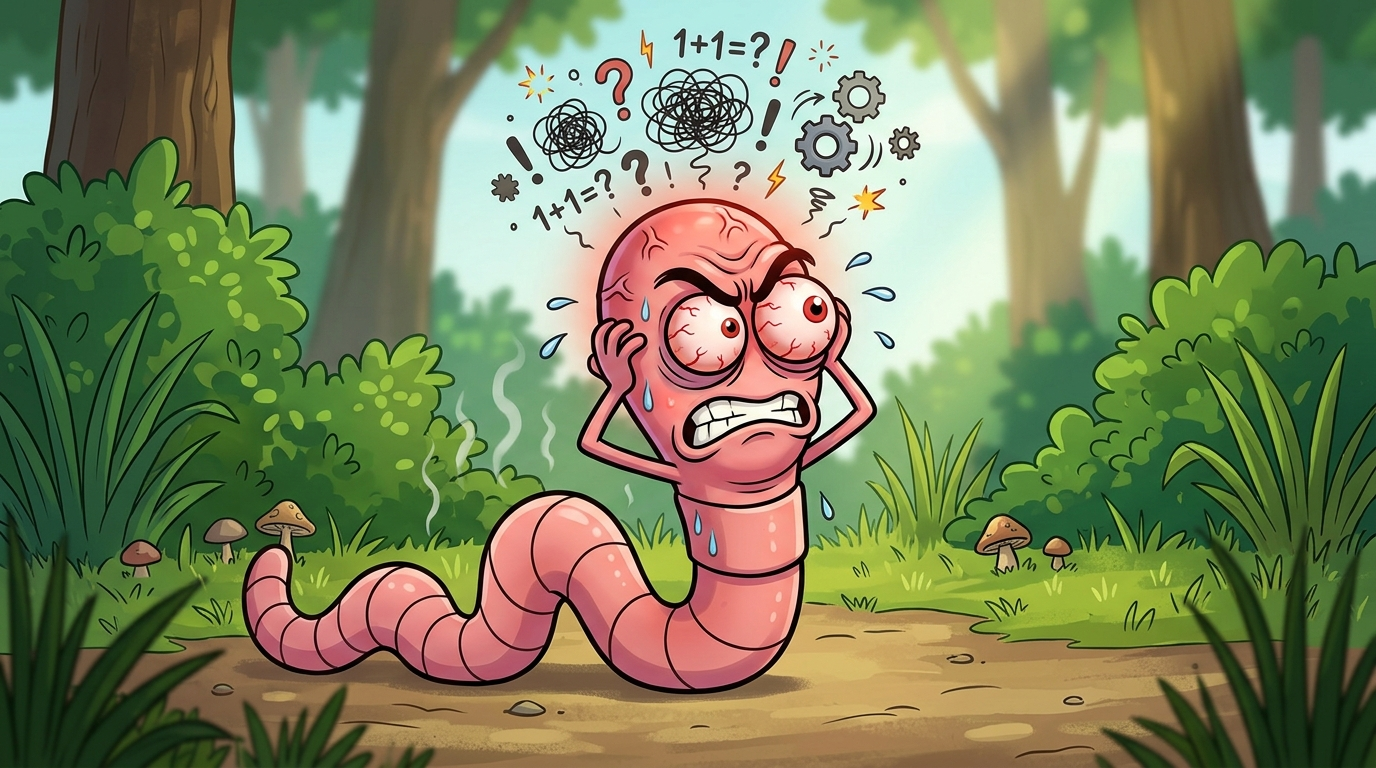
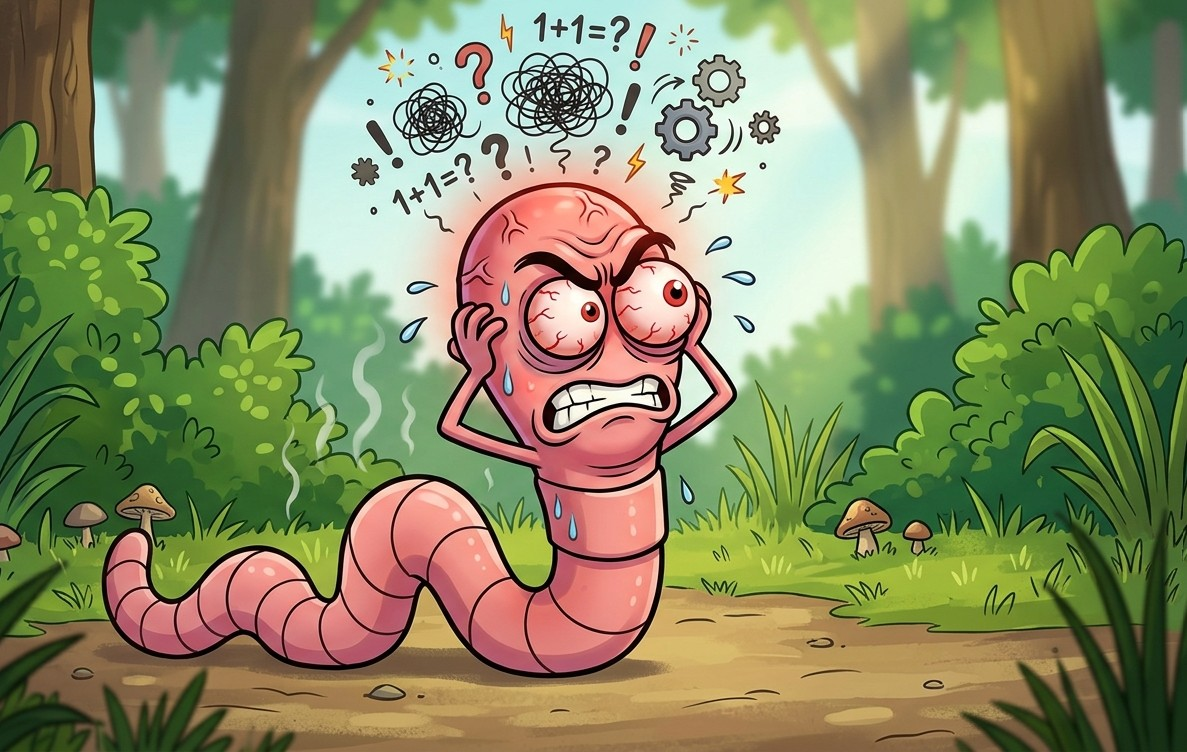
push as Florian

diff --git a/_tabs/CV.md b/_tabs/CV.md
@@ -597,6 +597,8 @@ Thoughtful Online Search</a>. </li>
 <li><a href="{{ '/investinginh/' | relative_url }}">Investing in Human Skills in the Age of AI</a>. </li>
 <li><a href="{{ '/microsoftcopilot/' | relative_url }}">Streamlining Your Work with
 Microsoft Copilot</a>. </li>
+<li><a href="{{ '/copilotforwork/' | relative_url }}">Learning Microsoft 365 Copilot for
+Work (2024)</a>. </li>
 <li><a href="{{ '/whatisgenai/' | relative_url }}">What Is Generative AI?</a>. </li>
 
 

diff --git a/2026-09-16-CopilotForWork.md b/2026-09-16-CopilotForWork.md
@@ -1,0 +1,16 @@
+---
+layout: page
+date: 2026-09-15 10:59:00
+title: 
+permalink: /copilotforwork/
+---
+
+[zurück]({% link _tabs/CV.md %})
+
+
+<iframe
+  src="{{ '/assets/linkedinlearning/copilotforwork.pdf' | relative_url}}"
+  width="100%"
+  height="800px"
+  style="border: none;">
+</iframe>
